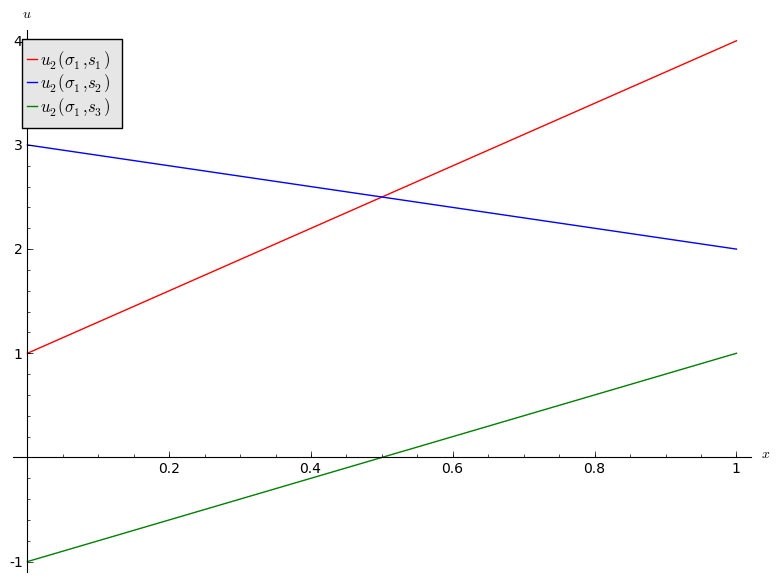
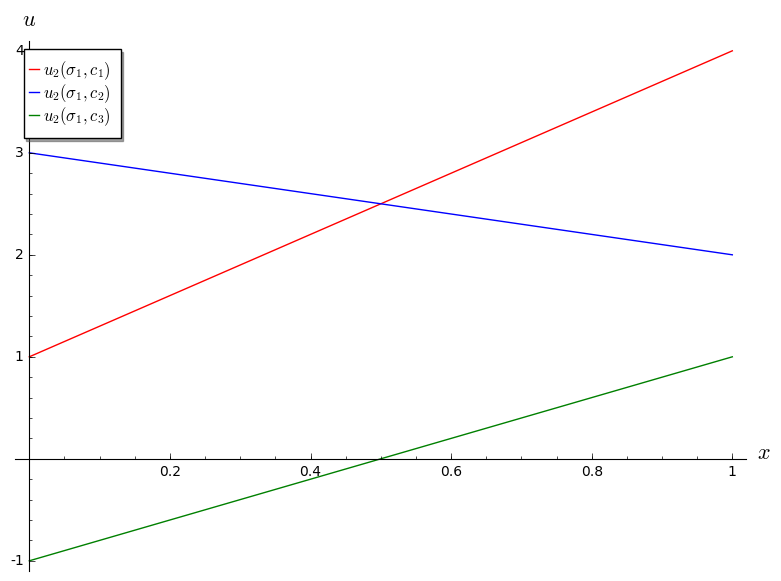
s -> c in C4.

diff --git a/Content/Chapter_04-Best_Responses.md b/Content/Chapter_04-Best_Responses.md
@@ -49,7 +49,7 @@ $$\begin{pmatrix}
 \end{pmatrix}
 $$
 
-We see that \\((r_3,s_3)\\) represented a pair of best responses. What can we say about the long term behaviour of this game?
+We see that \\((r_3,c_3)\\) represented a pair of best responses. What can we say about the long term behaviour of this game?
 
 ## Best responses against mixed strategies
 
@@ -121,7 +121,7 @@ $$\begin{pmatrix}
 We have:
 
 $$UD_1=\{r_1,r_2\}$$
-$$UD_2=\{s_1,s_2\}$$
+$$UD_2=\{c_1,c_2\}$$
 
 ### Definition of the best responses strategy set
 
@@ -137,22 +137,22 @@ In other words \\(B_i\\) is the set of functions that are best responses to some
 
 Let us try to identify \\(B_2\\) for the above game. Let us assume that player 1 plays \\(\sigma_1=(x,1-x)\\). This gives:
 
-$$u_2(\sigma_1,s_1)=1+2x$$
-$$u_2(\sigma_1,s_2)=3-x$$
-$$u_2(\sigma_1,s_3)=2x-1$$
+$$u_2(\sigma_1,c_1)=1+2x$$
+$$u_2(\sigma_1,c_2)=3-x$$
+$$u_2(\sigma_1,c_3)=2x-1$$
 
 Plotted:
 
 ![Utilities of player 2 in our example. \label{L04-plot03}]({{site.baseurl}}/Content/plots/L04-plot03.png)
 
-We see that \\(s_3\\) is never a best response for player 2:
+We see that \\(c_3\\) is never a best response for player 2:
 
-$$B_2=\{s_1,s_2\}$$
+$$B_2=\{c_1,c_2\}$$
 
 We will now attempt to identify \\(B_1\\) for the above game. Let us assume that player two plays \\(\sigma_2=(x,y,1-x-y)\\). This gives:
 
-$$u_1(r_1,\sigma_2)=xu_1(r_1,s_1)+yu_1(r_1,s_2)+(1-x-y)u_1(r_1,s_3)=3x+7y+5-5y-5x$$
-$$u_1(r_2,\sigma_2)=xu_1(r_2,s_1)+yu_1(r_2,s_2)+(1-x-y)u_1(r_2,s_3)=5x+6y+7-7y-7x$$
+$$u_1(r_1,\sigma_2)=xu_1(r_1,c_1)+yu_1(r_1,c_2)+(1-x-y)u_1(r_1,c_3)=3x+7y+5-5y-5x$$
+$$u_1(r_2,\sigma_2)=xu_1(r_2,c_1)+yu_1(r_2,c_2)+(1-x-y)u_1(r_2,c_3)=5x+6y+7-7y-7x$$
 
 $$u_1(r_1,\sigma_2)-u_1(r_2,\sigma_2)=3y - 2$$
 
